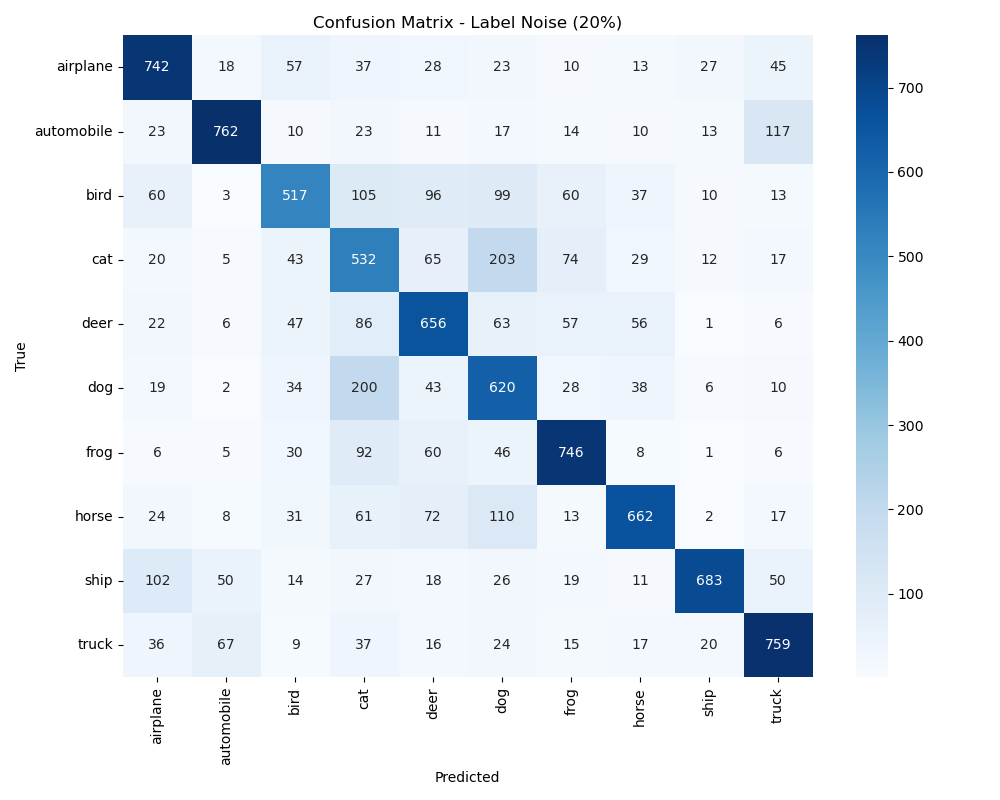
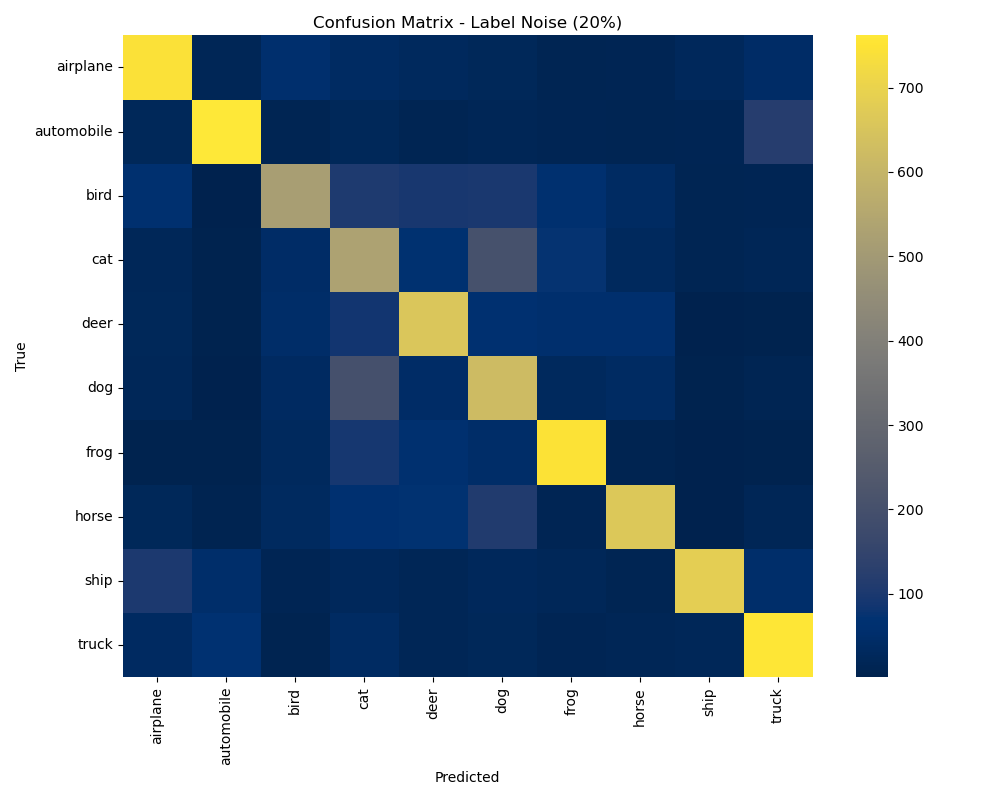
test results

diff --git a/model.py b/model.py
@@ -21,10 +21,9 @@ class SimpleCNN(nn.Module):
         x = self.fc2(x)
         return x
 
-def train(model, device, loader, optimizer, criterion, num_epochs=10):
+def train(model, device, loader, optimizer, criterion, num_epochs=5):
     model.train()
     for epoch in range(num_epochs):
-        running_loss = 0.0
         for data, target in loader:
             data, target = data.to(device), target.to(device)
             optimizer.zero_grad()
@@ -32,7 +31,6 @@ def train(model, device, loader, optimizer, criterion, num_epochs=10):
             loss = criterion(output, target)
             loss.backward()
             optimizer.step()
-            running_loss += loss.item()
 
 def test(model, device, loader):
     model.eval()

diff --git a/confMatrix.py b/confMatrix.py
@@ -6,8 +6,7 @@ import os
 def plot_confusion_matrix(y_true, y_pred, classes, exp_name):
     cm = confusion_matrix(y_true, y_pred)
     plt.figure(figsize=(10, 8))
-    sns.heatmap(cm, annot=True, fmt='d', cmap='Blues',
-                xticklabels=classes, yticklabels=classes)
+    sns.heatmap(cm, annot=False, fmt='d', cmap='cividis', xticklabels=classes, yticklabels=classes)
     plt.xlabel('Predicted')
     plt.ylabel('True')
     plt.title(f'Confusion Matrix - {exp_name}')
